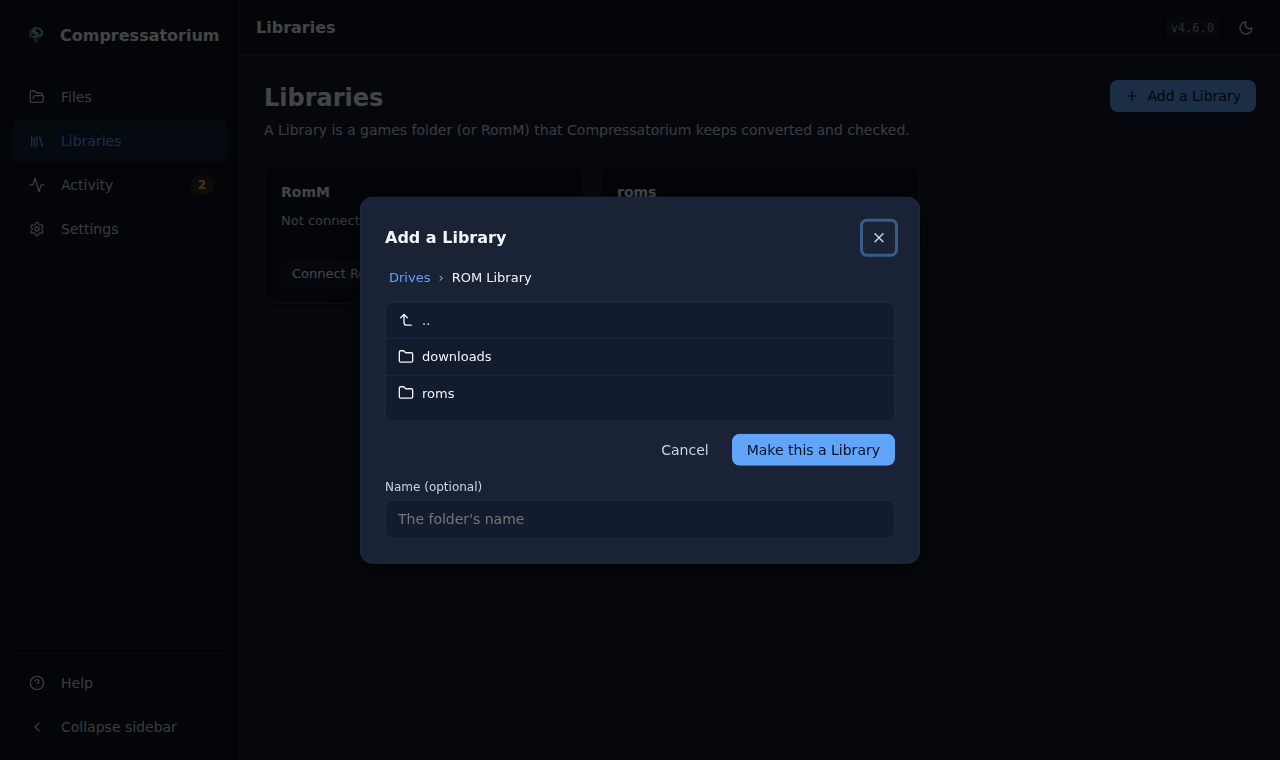
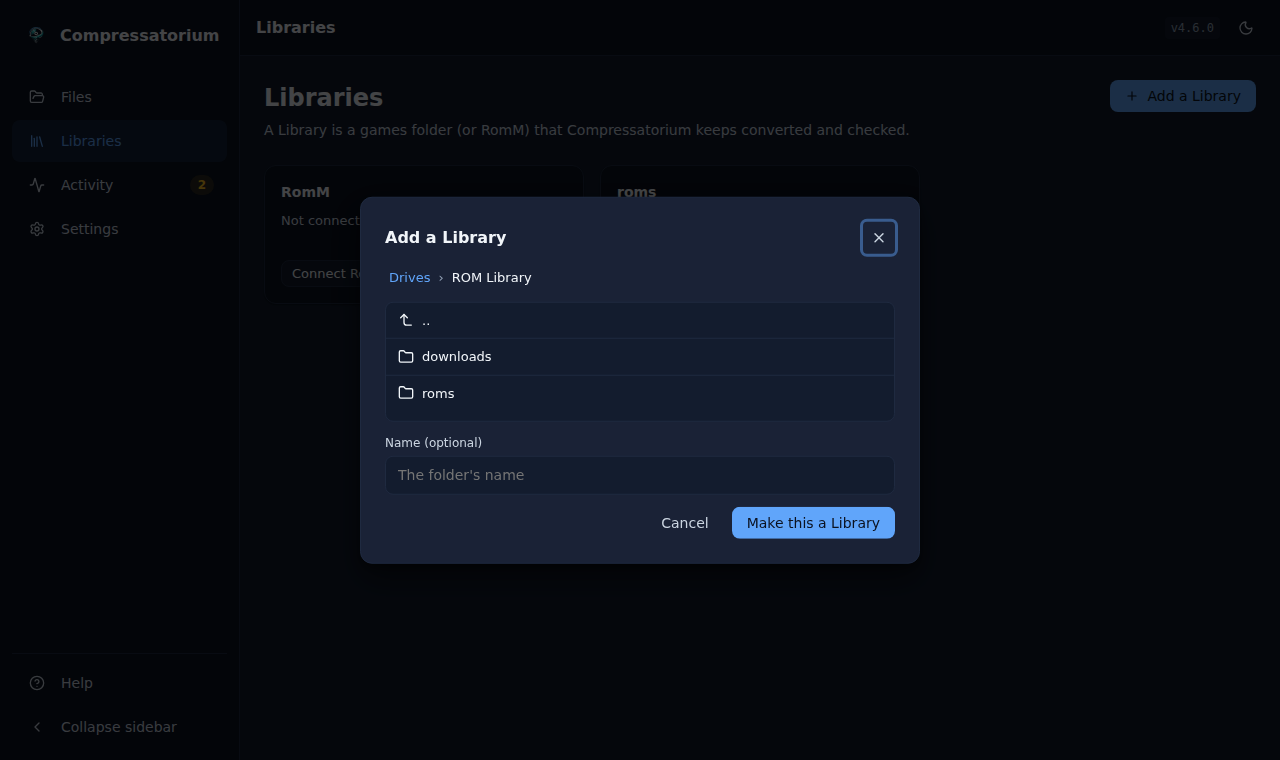
fix: dialog fields before buttons, Rename starts in its field, delete count inline (#568 #573) (#584)
* fix: dialog fields come before their buttons; Rename starts in its field (#568)

FolderPickerModal rendered its extra fields and error line after the
picker, whose own action row ended it, so Add a Library's Name field and
a folder dialog's refusal sat under the buttons. The picker now takes a
fields snippet above its buttons. A long Drive path no longer squeezes
the Drive's name and icon. BaseModal opens on a field marked
data-autofocus; Rename marks its name field and selects the name up to
its extension.

Fixes #568

* fix: BaseModal finds the marked field through its content ref (#568)

bits-ui calls onOpenAutoFocus with an event it never dispatches, so
event.currentTarget was null and the dialog fell back to its close
button. Bind the content element instead, and focus a frame later as
bits-ui does, after a menu that opened the dialog hands focus back.

* Update Web UI screenshots — Sun Nov 22 21:45:08 UTC 2026

* fix: the delete-original confirmation reads as one sentence (#573)

.dp-lead was a wrapping flex row, so its long text became one flex item
that dropped below the count badge, leaving the badge alone on a line
and the sentence starting in lower case under it. It is plain text with
the badge inline now.

Fixes #573

* fix: Rename this Library and Create .m3u open on their name field too (#568)

Rename this Library had autofocus on its field, which a bits-ui dialog
overrides (it focuses its close button), and Create .m3u had nothing.
[…]

Changed region(s): [[0.5312, 0.5447, 0.7188, 0.6355], [0.5312, 0.6658, 0.7188, 0.7263], [0.3125, 0.575, 0.4062, 0.6961]]

diff --git a/src/lib/components/ui/FolderPicker.svelte b/src/lib/components/ui/FolderPicker.svelte
@@ -11,6 +11,7 @@
    * @property {() => void} [onCancel]
    * @property {string} [confirmLabel]
    * @property {string[]} [disabledPaths] folders that can't be picked (already used)
+   * @property {import('svelte').Snippet} [fields] fields and notes above the buttons (#568)
    */
   import { onMount } from 'svelte';
   import { api } from '$lib/api/endpoints.js';
@@ -23,7 +24,7 @@
 
   /** @type {Props} */
   let {
-    start = null, onpick, onCancel, confirmLabel = 'Use this folder', disabledPaths = [],
+    start = null, onpick, onCancel, confirmLabel = 'Use this folder', disabledPaths = [], fields,
   } = $props();
 
   const SETUP_GUIDE = 'https://github.com/pacnpal/compressatorium/blob/latest/docs/DOCKER-COMPOSE.md';
@@ -148,6 +149,8 @@
     {/if}
   </div>
 
+  {#if fields}{@render fields()}{/if}
+
   <div class="actions">
     {#if blocked}<span class="note">This folder is already used.</span>{/if}
     {#if onCancel}<Button variant="ghost" onclick={onCancel}>Cancel</Button>{/if}
@@ -216,9 +219,15 @@
   .row:last-child { border-bottom: none; }
   .row:hover { background: var(--surface-3); }
   .row:focus-visible { outline: none; box-shadow: inset var(--focus-ring); }
-  .name { overflow-wrap: anywhere; }
+  /* A long Drive path wraps; it never squeezes the name or the icon to a
+     sliver (#568). */
+  .row > :global(svg) { flex-shrink: 0; }
+  .name { flex-shrink: 0; max-width: 60%; overflow-wrap: anywhere; }
   .path {
+    flex: 1 1 0;
+    min-width: 0;
     margin-left: auto;
+    text-align: right;
     color: var(--text-2);
     font-family: var(--font-mono);
     font-size: var(--text-xs);

diff --git a/src/lib/components/modals/FolderPickerModal.svelte b/src/lib/components/modals/FolderPickerModal.svelte
@@ -12,8 +12,8 @@
    * @property {string|null} [start]
    * @property {string} [confirmLabel]
    * @property {string[]} [disabledPaths]
-   * @property {string} [error] shown under the picker (the backend's detail)
-   * @property {import('svelte').Snippet} [extra] fields under the picker
+   * @property {string} [error] shown above the picker's buttons (the backend's detail)
+   * @property {import('svelte').Snippet} [extra] fields above the picker's buttons
    */
   import BaseModal from './BaseModal.svelte';
   import FolderPicker from '$lib/components/ui/FolderPicker.svelte';
@@ -27,20 +27,17 @@
 
 <BaseModal {open} {onClose} {title} size="md">
   {#snippet body()}
-    <div class="picker-body">
-      <FolderPicker {start} {onpick} onCancel={onClose} {confirmLabel} {disabledPaths} />
-      {#if extra}{@render extra()}{/if}
-      {#if error}<p class="error" role="alert">{error}</p>{/if}
-    </div>
+    <!-- The fields and the error line go above the picker's buttons (#568). -->
+    <FolderPicker {start} {onpick} onCancel={onClose} {confirmLabel} {disabledPaths}>
+      {#snippet fields()}
+        {#if extra}{@render extra()}{/if}
+        {#if error}<p class="error" role="alert">{error}</p>{/if}
+      {/snippet}
+    </FolderPicker>
   {/snippet}
 </BaseModal>
 
 <style>
-  .picker-body {
-    display: flex;
-    flex-direction: column;
-    gap: var(--space-3);
-  }
   .error {
     margin: 0;
     padding: var(--space-2) var(--space-3);

diff --git a/src/lib/components/modals/BaseModal.svelte b/src/lib/components/modals/BaseModal.svelte
@@ -27,12 +27,29 @@
   function handleOpenChange(value) {
     if (!value) onClose();
   }
+
+  // A dialog with a field to type in opens on it (#568): the field marked
+  // `data-autofocus`, else bits-ui's default (the first focusable element).
+  // A frame later, as bits-ui's own focus is, so a menu that opened this
+  // dialog has finished handing focus back first.
+  /** @type {HTMLElement | null} */
+  let contentEl = $state(null);
+  function focusMarkedField(event) {
+    const field = /** @type {HTMLElement | null} */ (contentEl?.querySelector('[data-autofocus]'));
+    if (!field) return;
+    event.preventDefault();
+    requestAnimationFrame(() => field.focus());
+  }
 </script>
 
 <Dialog.Root {open} onOpenChange={handleOpenChange}>
   <Dialog.Portal>
     <Dialog.Overlay class="mdl-overlay" />
-    <Dialog.Content class="mdl-content mdl-size-{size}">
+    <Dialog.Content
+      bind:ref={contentEl}
+      class="mdl-content mdl-size-{size}"
+      onOpenAutoFocus={focusMarkedField}
+    >
       <header class="mdl-header">
         <Dialog.Title class="mdl-title">
           {#if titleIcon}{@render titleIcon()}{/if}

diff --git a/src/lib/components/modals/DeletePlanModal.svelte b/src/lib/components/modals/DeletePlanModal.svelte
@@ -193,7 +193,10 @@
 </BaseModal>
 
 <style>
-  .dp-lead { margin: 0; font-size: var(--text-sm); color: var(--text-1); display: flex; align-items: center; gap: var(--space-2); flex-wrap: wrap; }
+  /* One sentence with its count inline (#573): a wrapping flex row dropped
+     the whole sentence below the badge. */
+  .dp-lead { margin: 0; font-size: var(--text-sm); color: var(--text-1); }
+  .dp-lead > :global(.badge) { margin-right: var(--space-1); }
   .dp-block { display: flex; gap: var(--space-2); background: var(--error-muted); color: var(--error); border-radius: var(--radius-md); padding: var(--space-2) var(--space-3); font-size: var(--text-sm); align-items: flex-start; }
   .dp-block strong { font-weight: var(--weight-semibold); }
   .dp-block-list { margin: var(--space-1) 0 0; padding-left: var(--space-4); font-size: var(--text-xs); }

diff --git a/src/lib/components/modals/RenameModal.svelte b/src/lib/components/modals/RenameModal.svelte
@@ -96,6 +96,14 @@
     }
   }
 
+  // Focused on open (#568) with the name before its extension selected, so
+  // typing replaces the name and keeps `.cue`.
+  function selectStem(e) {
+    const input = e.currentTarget;
+    const dot = input.value.lastIndexOf('.');
+    input.setSelectionRange(0, dot > 0 ? dot : input.value.length);
+  }
+
   function handleKeydown(e) {
     if (e.key === 'Enter' && !busy) {
       e.preventDefault();
@@ -123,6 +131,8 @@
         autocomplete="off"
         spellcheck="false"
         aria-label="New file name"
+        data-autofocus
+        onfocus={selectStem}
       />
     </label>
   {/snippet}

diff --git a/src/lib/components/views/LibraryView.svelte b/src/lib/components/views/LibraryView.svelte
@@ -288,8 +288,7 @@
     <form class="rename" onsubmit={rename}>
       <label>
         <span class="label">Name</span>
-        <!-- svelte-ignore a11y_autofocus -->
-        <input type="text" bind:value={draftName} autofocus />
+        <input type="text" bind:value={draftName} data-autofocus />
       </label>
     </form>
   {/snippet}

diff --git a/tests/test_frontend_dialog_fields_568.py b/tests/test_frontend_dialog_fields_568.py
@@ -1,0 +1,62 @@
+"""A dialog's fields come before its buttons, and Rename starts in its field (#568).
+
+Add a Library showed Cancel / Make this a Library, then the Name field under
+them, because FolderPickerModal rendered its extra fields (and its error line)
+after the picker, whose own action row ended it. Rename opened with focus on
+the dialog's close button.
+"""
+from __future__ import annotations
+
+from pathlib import Path
+
+_LIB = Path(__file__).resolve().parents[1] / "src" / "lib" / "components"
+
+
+def _read(rel: str) -> str:
+    return (_LIB / rel).read_text(encoding="utf-8")
+
+
+def test_the_picker_renders_fields_and_errors_above_its_buttons():
+    picker = _read("ui/FolderPicker.svelte")
+    markup = picker[picker.index("</script>"):]
+    assert markup.index("{@render fields()}") < markup.index('<div class="actions">')
+
+    # The modal hands its fields and its error line to the picker, inside it,
+    # instead of rendering them after it.
+    modal = _read("modals/FolderPickerModal.svelte")
+    given = modal[modal.index("{#snippet fields()}"):modal.index("</FolderPicker>")]
+    assert "{@render extra()}" in given
+    assert 'class="error"' in given
+    assert modal.count("{@render extra()}") == 1
+
+
+def test_a_dialog_opens_on_its_marked_field():
+    base = _read("modals/BaseModal.svelte")
+    assert "onOpenAutoFocus" in base
+    assert "[data-autofocus]" in base
+    rename = _read("modals/RenameModal.svelte")
+    assert "data-autofocus" in rename
+
+
+def test_a_long_drive_path_never_squeezes_the_drive_name():
+    css = _read("ui/FolderPicker.svelte").split("<style>", 1)[1]
+    assert ".name { flex-shrink: 0;" in css
+    assert ".row > :global(svg) { flex-shrink: 0; }" in css
+
+
+def test_the_delete_plan_count_reads_inside_its_sentence():
+    """#573: a wrapping flex row put the count badge on a line of its own and
+    started the sentence below it in lower case."""
+    css = _read("modals/DeletePlanModal.svelte").split("<style>", 1)[1]
+    lead = css[css.index(".dp-lead {"):]
+    lead = lead[:lead.index("}")]
+    assert "display: flex" not in lead
+
+
+def test_every_dialog_with_a_name_to_type_opens_on_it():
+    """`autofocus` does nothing inside a bits-ui dialog (it moves focus itself),
+    so a dialog's field is marked for BaseModal instead."""
+    for rel in ("views/LibraryView.svelte", "modals/RenameModal.svelte"):
+        source = _read(rel)
+        assert "data-autofocus" in source, rel
+        assert " autofocus" not in source, rel

diff --git a/docs/RELEASE_NOTES.md b/docs/RELEASE_NOTES.md
@@ -493,6 +493,14 @@
   through a link. A job already queued before the change still runs as it
   was queued.
 
+- **Dialog fields come before their buttons** (#568). Add a Library put its
+  **Name** field under **Make this a Library**, and a folder dialog's refusal
+  (*This folder is already a Library*) showed under the buttons too; both are
+  above them now. A long Drive path no longer squeezes the Drive's name to two
+  letters a line. **Rename** opens with the name selected (up to its
+  extension), so typing replaces it and Enter saves. The delete-original
+  confirmation reads as one sentence (#573); its count sat alone on a line
+  above it.
 - **RomM: every Platform gets a folder for new Images, even when RomM keeps
   two records for it** (#512). RomM often keeps an empty record beside the
   real one (`famicom` beside `nes`, `gg` beside `gamegear`), and **Where new
